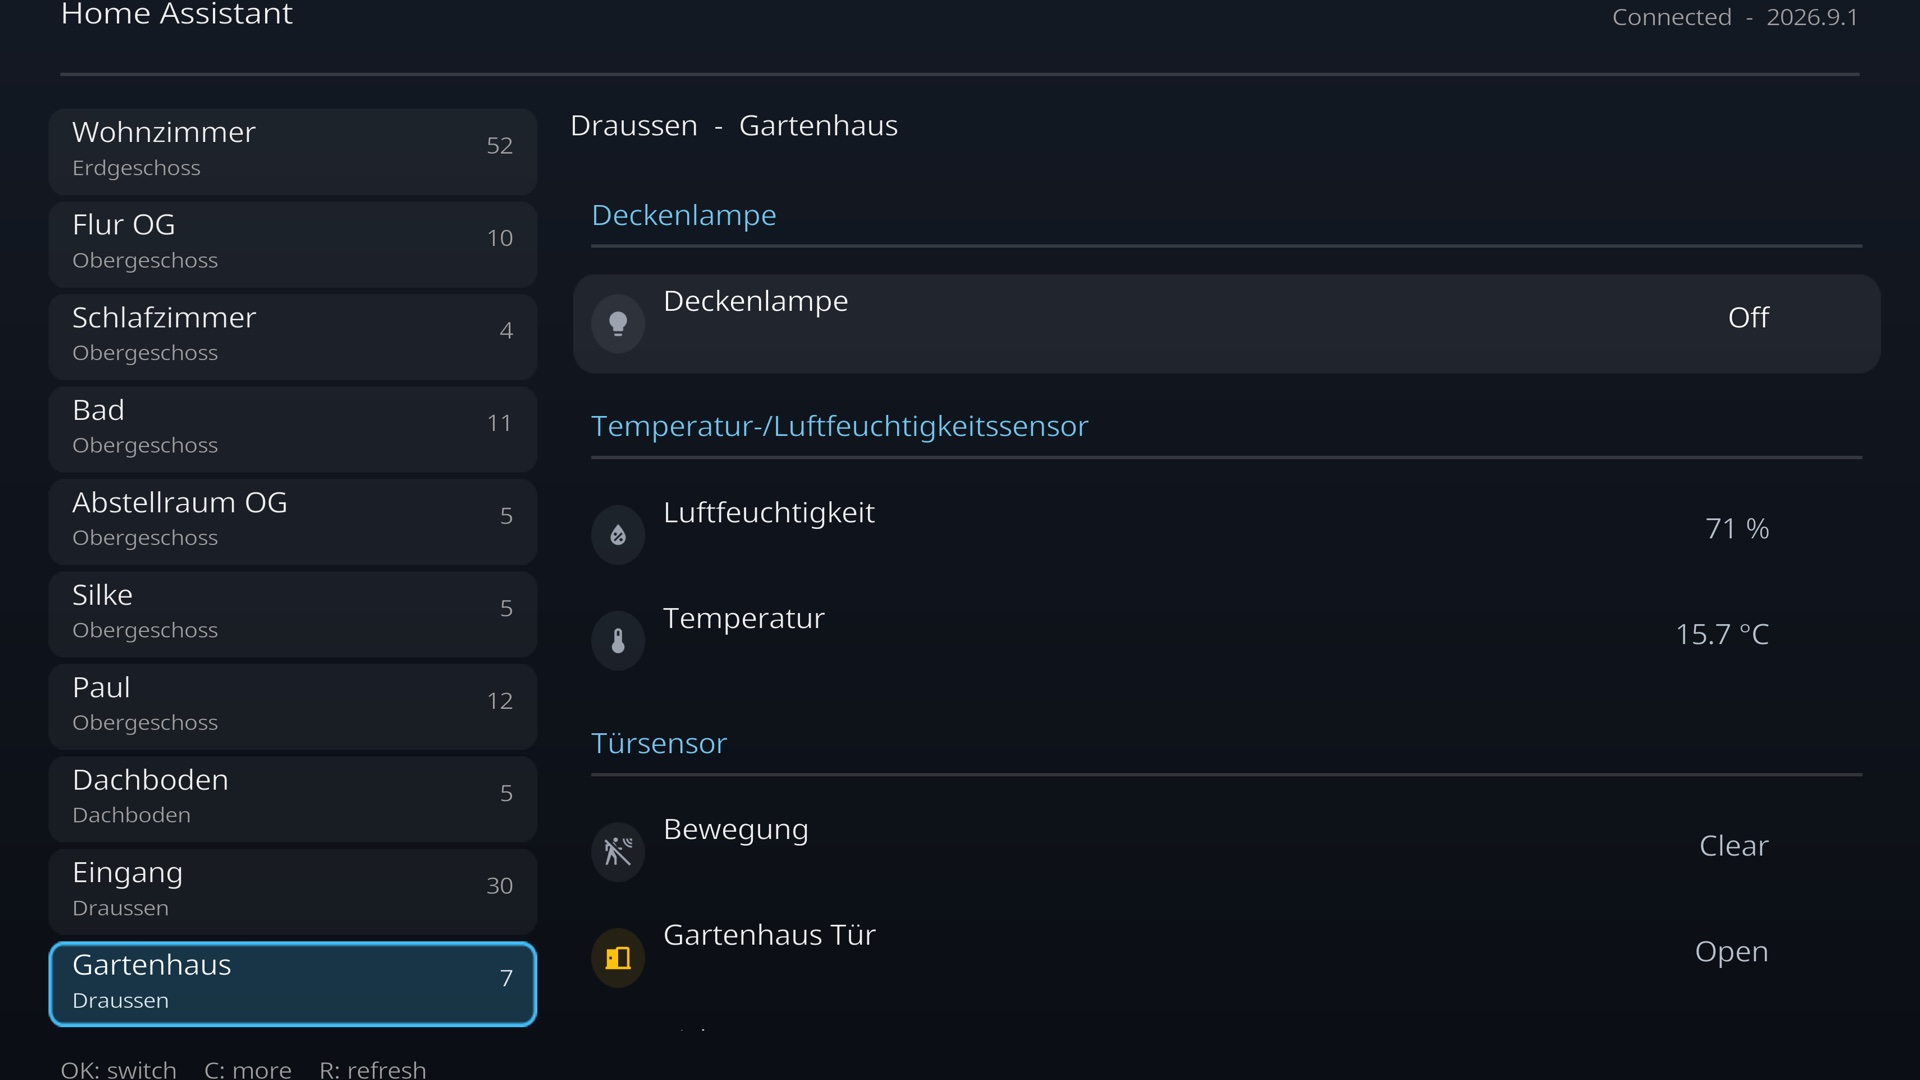
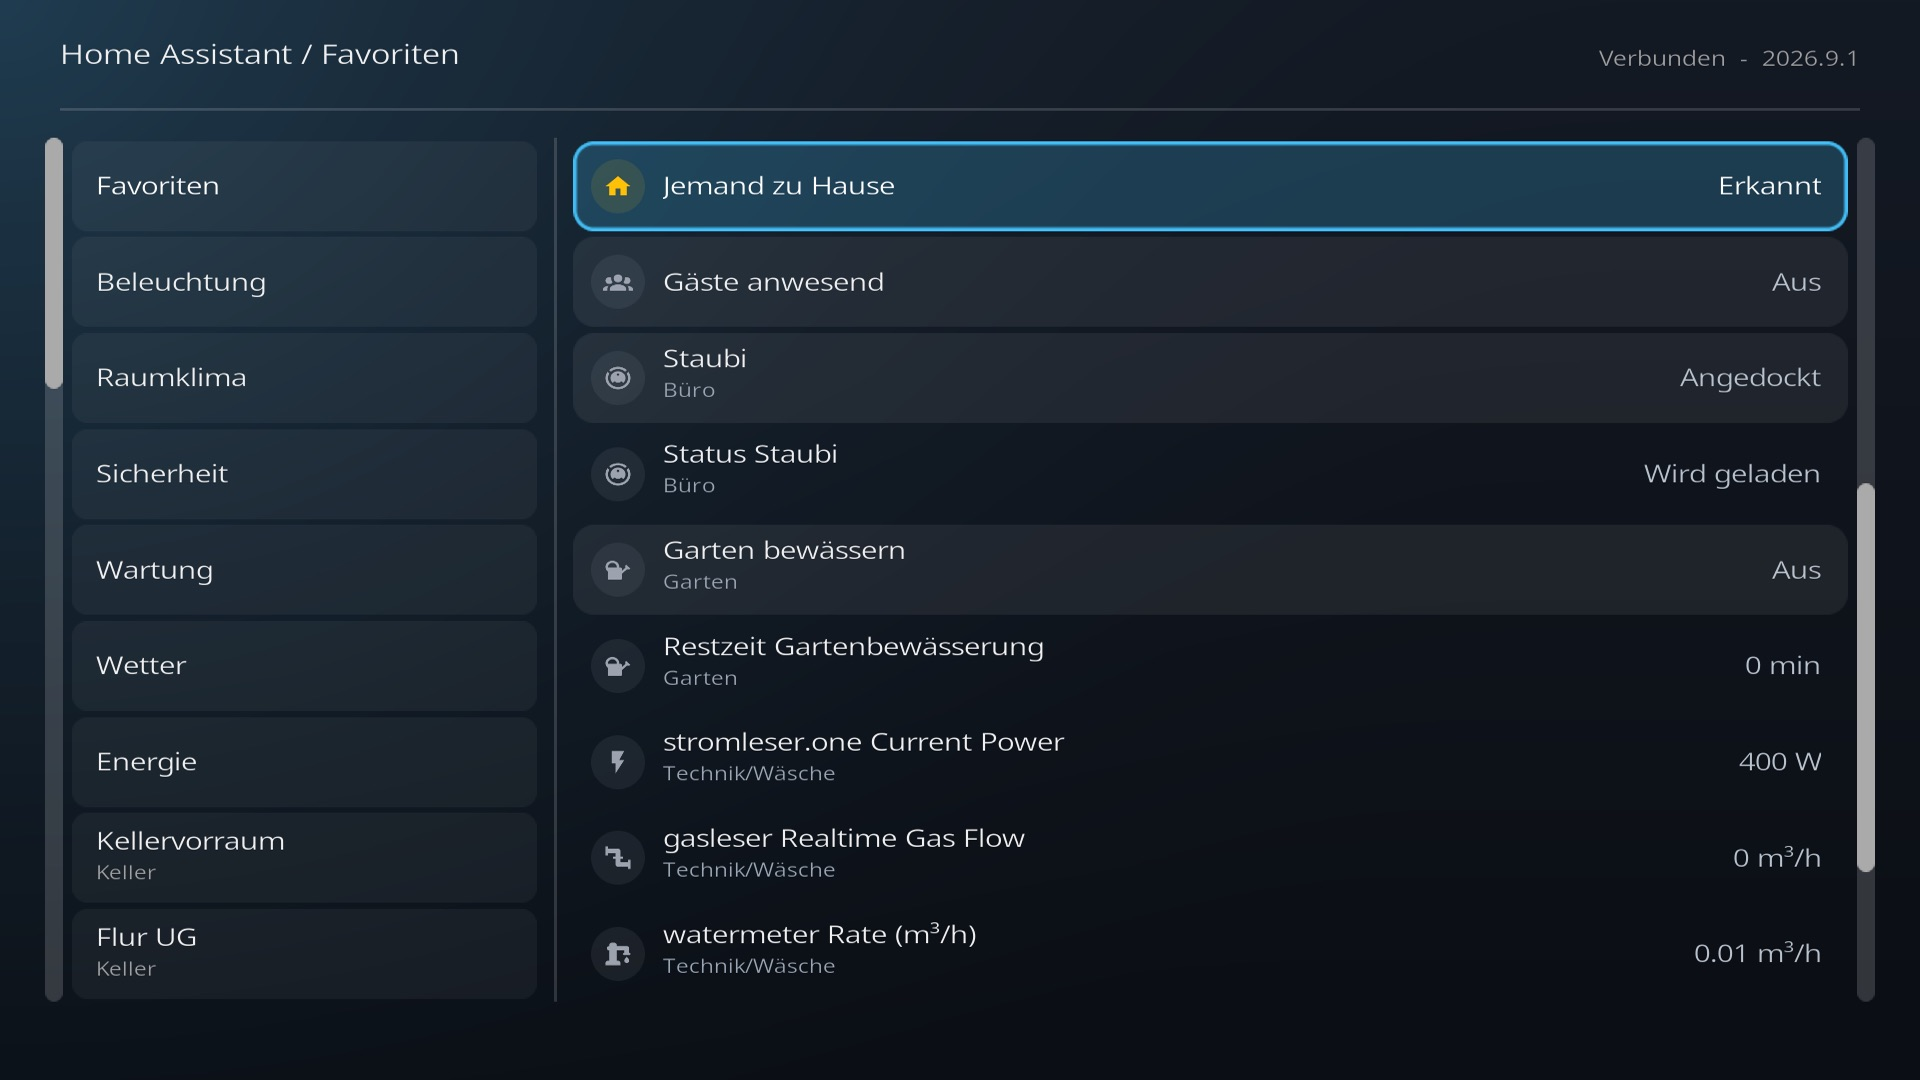
1.3.0
The media window is what this release is about: a player answers with a window
of Home Assistant's own shape rather than a list of commands. Along with it,
the wording of states and option lists now comes from Home Assistant instead
of this addon's translations, and the store no longer holds its lock across a
command - which could leave the dashboard frozen for half a minute.

The window it all sits in was gone over as well: the path to where you are
stands in the corner rather than over the rows, each list has a bar beside it
and a rule between them, a row's two halves take the room they need rather
than holding to columns, nothing is cut off at the foot any more, and the
ground carries a light in one corner.

The screenshots are new, and show all of that. They were taken in a window of
sixteen to ten, where Kodi pulls a sixteen to nine skin out to fill the
height, so they are squashed back rather than cut: that restores the shapes
and keeps the foot of the media window in the frame.

A fanart joins them, which the addon never had: a photograph of a living room,
CC0 from Wikimedia Commons, cropped to the same shape and dimmed until a dark
skin can be read over it. Home Assistant's own artwork could not be used - it
is CC BY-NC-SA with the logo trademarked on top - and the README says where
this one came from, which CC0 does not ask for and a repository will want
anyway.

diff --git a/README.md b/README.md
@@ -161,6 +161,12 @@ https://thesvg.org/icon/home-assistant, kept as `tools/icon.svg` with a margin
 so Kodi cannot clip it. No script turns it into `resources/icon.png` - that was
 done once by hand.
 
+The fanart is a photograph by Jarosław Ceborski, taken from Wikimedia Commons
+under CC0, cropped to sixteen to nine and dimmed so that it sits behind a dark
+skin: https://commons.wikimedia.org/wiki/File:Living_room_(Unsplash).jpg. CC0
+asks for nothing, but the addon should be able to say where its pictures came
+from.
+
 The modules under `resources/lib` that build the dashboard - `model`, `sections`,
 `formatting`, `actions` and everything under `ha` - do not import Kodi and can
 be exercised outside it.
